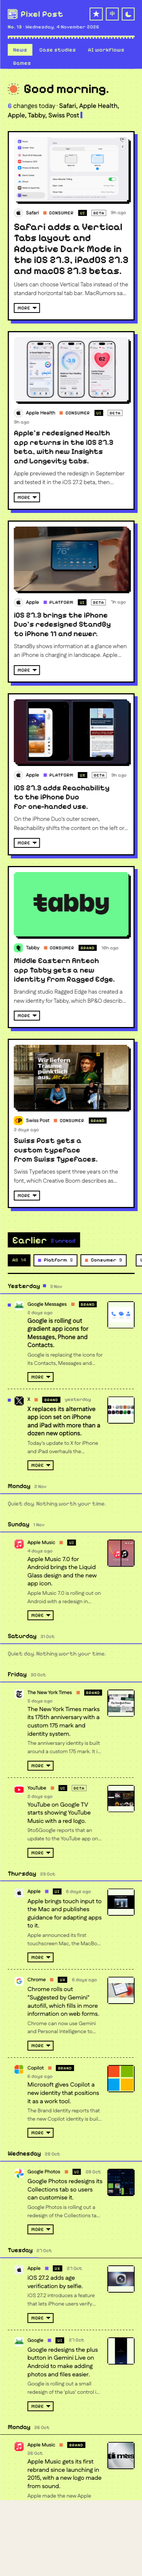
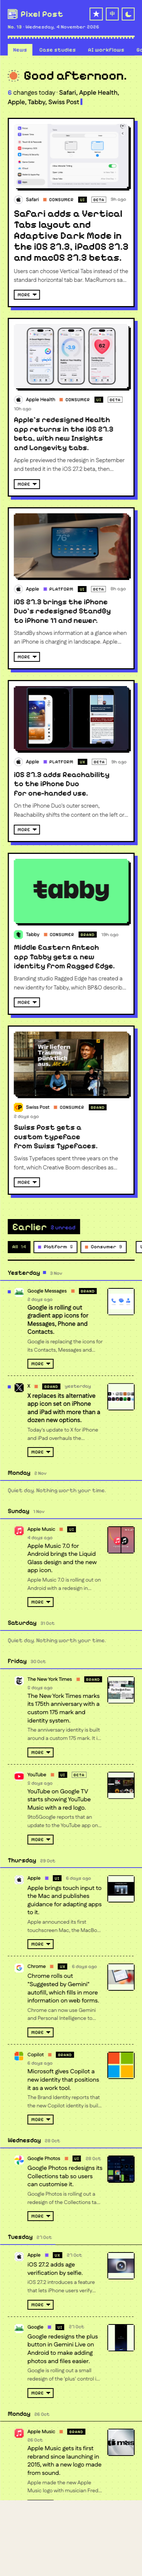
Phone: page tabs stay on one line and scroll sideways

diff --git a/site/styles.css b/site/styles.css
@@ -1477,6 +1477,8 @@ button {
   display: none;
 }
 .view-tab {
+  flex: none;
+  white-space: nowrap;
   padding: 9px 14px 8px;
   font: 500 14px/1 var(--display);
   letter-spacing: 0.04em;
@@ -2406,7 +2408,24 @@ html:lang(zh-CN) .snake-hint span {
   .game-stats dd {
     font-size: 22px;
   }
+  /* One line of tabs that scrolls sideways when it is wider than the phone. It runs to the screen's edges, so a
+     tab cut off at the right shows there is more; the scrollbar is hidden. */
   .views {
-    flex-wrap: wrap;
+    margin: 0 calc(-1 * var(--gutter));
+    padding-left: var(--gutter);
+    padding-right: var(--gutter);
+    scroll-padding: 0 var(--gutter);
+    overflow-x: auto;
+    overscroll-behavior-x: contain;
+    scrollbar-width: none;
+  }
+  .views::-webkit-scrollbar {
+    display: none;
+  }
+  /* The last tab keeps the right-hand padding when scrolled to the end. */
+  .views::after {
+    content: '';
+    flex: none;
+    width: 1px;
   }
 }

diff --git a/site/app.js b/site/app.js
@@ -1523,6 +1523,9 @@ async function showView() {
     else a.removeAttribute('aria-current');
   }
   $('#views').setAttribute('aria-label', t().viewsLabel);
+  // On a phone the tabs scroll sideways; keep the open one in view.
+  const current = $('#views').querySelector('[aria-current="page"]');
+  if (current && $('#views').scrollWidth > $('#views').clientWidth) current.scrollIntoView({ block: 'nearest', inline: 'nearest' });
   if (view !== 'games') games?.leaveGames();
   const page = PAGES[view];
   if (!page) return;
